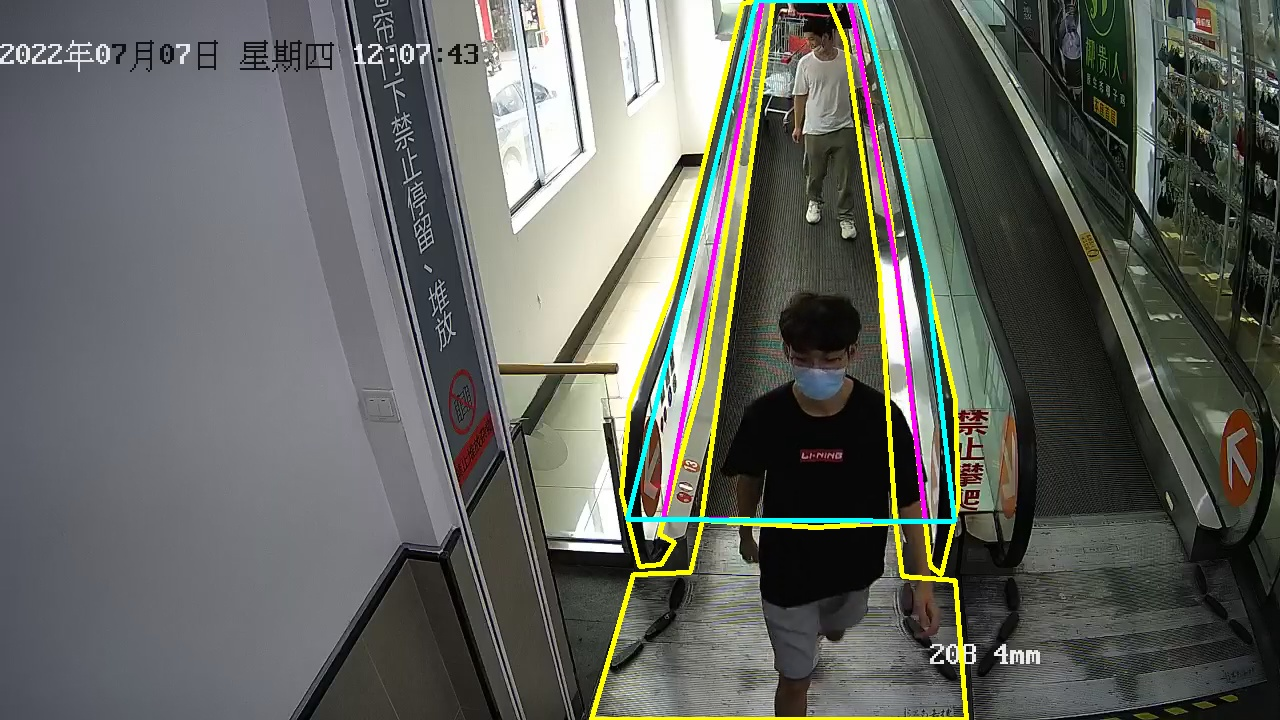
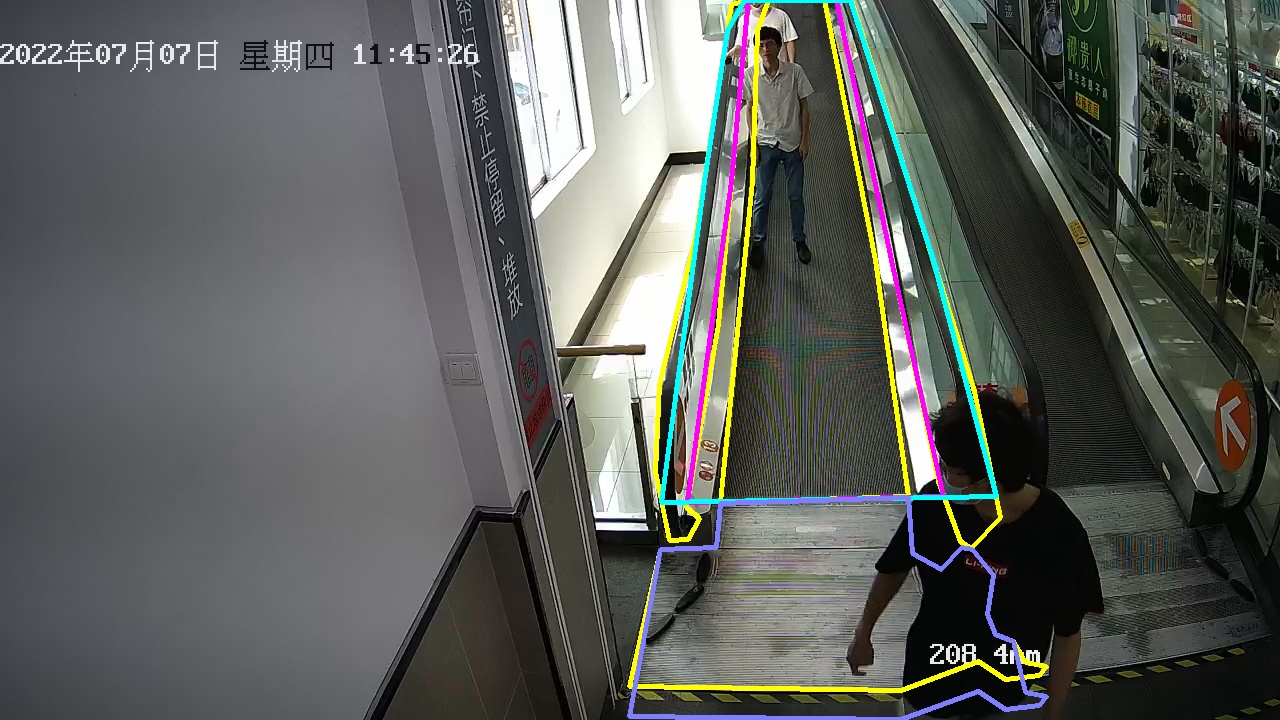
update

diff --git a/utils/utils.py b/utils/utils.py
@@ -19,8 +19,8 @@ except Exception as e:
     print(repr(e))
 
 
-SEG_COLORS = [[255, 0, 0], [0, 255, 0], [0, 0, 255], [0, 0, 0]]
-colors = [[255, 0, 0], [0, 255, 0], [0, 0, 255],[0, 0, 0]]
+SEG_COLORS = [[255, 0, 0], [0, 255, 0], [0, 0, 255], [255,255,0], [0, 0, 0]]
+colors = [[255, 0, 0], [0, 255, 0], [0, 0, 255], [255,255,0], [0, 0, 0]]
 classes = ['left baffle','right baffle','step','floor plate','background']
 train_id_to_color = np.array(colors)
 train_id_to_color = np.ascontiguousarray(train_id_to_color)
@@ -231,11 +231,14 @@ def get_contour_approx(pred,img,visual=False):
             print(f'no contour is found for class `{classes[i]}`')
     cnts_l,cnts_xl = get_larger_step_v2(approxs)
     # cnts_l,cnts_xl = get_larger_step(approxs)
+    cnts_l_floor = get_larger_floor(approxs)
     approxs['large_step'] = cnts_l.tolist()
     approxs['larger_step'] = cnts_xl.tolist()
+    approxs['larger_floor'] = cnts_l_floor.tolist()
     if visual:
         img = visual_contour(img,cnts_l,color=(255,0,255))
         img = visual_contour(img,cnts_xl,color=(255,255,0))
+        img = visual_contour(img,cnts_l_floor,color=(255,127,127))
         cv2.imwrite('output/out-trt-aprroxs.jpg',img) 
     return approxs
 
@@ -860,6 +863,35 @@ def get_larger_step_v2(area_cnts:dict):
 
     return cnts_l,cnts_xl
 
+def get_larger_floor(area_cnts:dict,add_pixel=30):
+    assert 'floor plate' in area_cnts,f'floor plate not found'
+    if "imgHeight" not in area_cnts or "imgWidth" not in area_cnts:
+        imgH,imgW = 720,1280
+    else:
+        imgH,imgW = area_cnts["imgHeight"],area_cnts["imgWidth"]
+    floor_plate = ContourParse(np.array(area_cnts[classes[3]]),clock_wise=True,cnt_type='step')
+    cnts = floor_plate.contour.copy()
+    cnts_l = floor_plate.contour.copy()
+    x_min,x_max = np.min(cnts[:,0]),np.max(cnts[:,0])
+    y_min,y_max = np.min(cnts[:,1]),np.max(cnts[:,1])
+    supply = int((y_max-y_min)/10)
+    moments = cv2.moments(cnts)             # 求矩
+    cx = int(moments['m10']/moments['m00']) # 求x坐标
+    cy = int(moments['m01']/moments['m00']) # 求y坐标
+    for i,pt in enumerate(cnts):
+        x,y = pt[0],pt[1]
+        if y>=cy+supply:
+            cnts_l[i] = np.asarray([x,np.clip(y+add_pixel,0,imgH-1)])
+    
+    img = visual_json(data=area_cnts)
+    img = visual_contour(img,cnts_l,color=(200,200,200))
+    img = cv2.circle(img ,(cx,cy+supply),2,(0,0,255),4) #画出重心
+    cv2.imshow('img',img)
+    cv2.waitKey(0)
+
+    return cnts_l
+
+
 def get_img_from_video(vid_path,frame_id=0,save_path=None):
     cap = cv2.VideoCapture(vid_path)
 
@@ -919,10 +951,11 @@ def visual_contour(img,cnt,color=(127,127,127),draw_line=False):
 
 
 if __name__ == "__main__":
-    # vid_path = r"data\4mm_scenario1_1.mp4"
+    # vid_path = r"data\4mm_07.mp4"
     # save_path = r"data/test.jpg"
-    # get_img_from_video(vid_path,save_path=save_path,frame_id=522)
+    # get_img_from_video(vid_path,save_path=save_path,frame_id=10)
     # get_larger_step(loadJson('output/seg_result.json'))
-    get_larger_step_v2(loadJson('output/seg_result.json'))
+    # get_larger_step_v2(loadJson('output/seg_result.json'))
+    get_larger_floor(loadJson('output/seg_result.json'))
 
 

diff --git a/infer_onnx.py b/infer_onnx.py
@@ -75,6 +75,7 @@ def infer_onnx_video(video_path,onnx_path,save_vid=False,save_name=None):
 
     stillgo,frame = cap.read()
     count = 0
+    approxs = []
     while stillgo:
         start = time.time()
         print(count)
@@ -105,13 +106,13 @@ def infer_onnx_video(video_path,onnx_path,save_vid=False,save_name=None):
 
 if __name__ == "__main__":
 
-    # img_path = "data/test.jpg"
-    # onnx_path = "weights/fcn_hrnetw18_dynamic.onnx"
-    # infer_onnx(img_path,onnx_path)
-
-    vid_path = r"data\4mm_14.mp4"
+    img_path = "data/test.jpg"
     onnx_path = "weights/fcn_hrnetw18_dynamic.onnx"
-    infer_onnx_video(vid_path,onnx_path,save_vid=True,save_name='output/out.avi')
+    infer_onnx(img_path,onnx_path)
+
+    # vid_path = r"data\4mm_07.mp4"
+    # onnx_path = "weights/fcn_hrnetw18_dynamic.onnx"
+    # infer_onnx_video(vid_path,onnx_path,save_vid=True,save_name='output/out.avi')
 
     # img_path = r'D:\my file\project\扶梯项目\code\OpticalFlow-DirectionJudge\data\test.jpg'
     # onnx_path = r"D:\my file\project\扶梯项目\code\segmentation\weights\fcn_hrnetw18.onnx"
